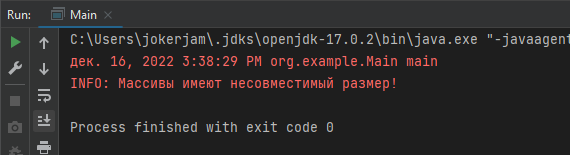
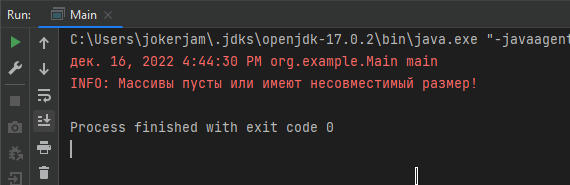
task 4 ready, need notes

diff --git a/Task_04/src/main/java/org/example/Main.java b/Task_04/src/main/java/org/example/Main.java
@@ -1,0 +1,52 @@
+package org.example;
+
+import org.w3c.dom.ranges.RangeException;
+
+import java.util.Arrays;
+import java.util.logging.Logger;
+
+/**
+ * Реализуйте метод, принимающий в качестве аргументов два целочисленных массива, и возвращающий новый массив,
+ * каждый элемент которого равен частному элементов двух входящих массивов в той же ячейке.
+ * Если длины массивов не равны, необходимо как-то оповестить пользователя.
+ * Важно: При выполнении метода единственное исключение, которое пользователь может увидеть - RuntimeException, т.е. ваше
+ */
+
+public class Main {
+    public static void main(String[] args) {
+        int[] array1 = {4,8,-2,3,9};
+        int[] array2 = {9,7,5,-1,0};
+
+        int[] array3 = divideArray(array1, array2);
+
+        Logger logger = Logger.getAnonymousLogger();
+        logger.info(Arrays.toString(array1));
+        logger.info(Arrays.toString(array2));
+        logger.info(Arrays.toString(array3));
+    }
+
+    public static int[] divideArray(int[] a1, int[] a2) throws RangeException {
+        int[] result = new int[0];
+
+        try {
+            if(a1.length != a2.length){
+                throw new RuntimeException("Неверный размер массивов");
+            }
+
+            result = new int[a1.length];
+            for (int i = 0; i < a1.length; i++) {
+                try {
+                    result[i] = a1[i] / a2[i];
+                }catch (ArithmeticException a){
+                    result[i] = 0;
+                }
+            }
+
+        } catch (RuntimeException e){
+            Logger logger = Logger.getAnonymousLogger();
+            logger.info(e.getMessage());
+        }
+
+        return result;
+    }
+}

diff --git a/Task_03/src/main/java/org/example/Main.java b/Task_03/src/main/java/org/example/Main.java
@@ -18,7 +18,7 @@ public class Main {
 
         int[] c = makeArray(a1, a2);
         if (c.length == 0) {
-            logger.info("Массивы имеют несовместимый размер!");
+            logger.info("Массивы пусты или имеют несовместимый размер!");
         } else {
             logger.info("Массив сформирован!");
             logger.info(Arrays.toString(c));

diff --git a/README.md b/README.md
@@ -50,6 +50,10 @@ https://s3-us-west-2.amazonaws.com/secure.notion-static.com/dc8fb574-7132-4c30-9
 
 Реализуйте метод, принимающий в качестве аргументов два целочисленных массива, и возвращающий новый массив, каждый элемент которого равен частному элементов двух входящих массивов в той же ячейке. Если длины массивов не равны, необходимо как-то оповестить пользователя. Важно: При выполнении метода единственное исключение, которое пользователь может увидеть - RuntimeException, т.е. ваше
 
+При делении на 0 исключение не вызывается, значению массива присваивается 0.
+
+
+***
 
 ### Задача 5*
 
